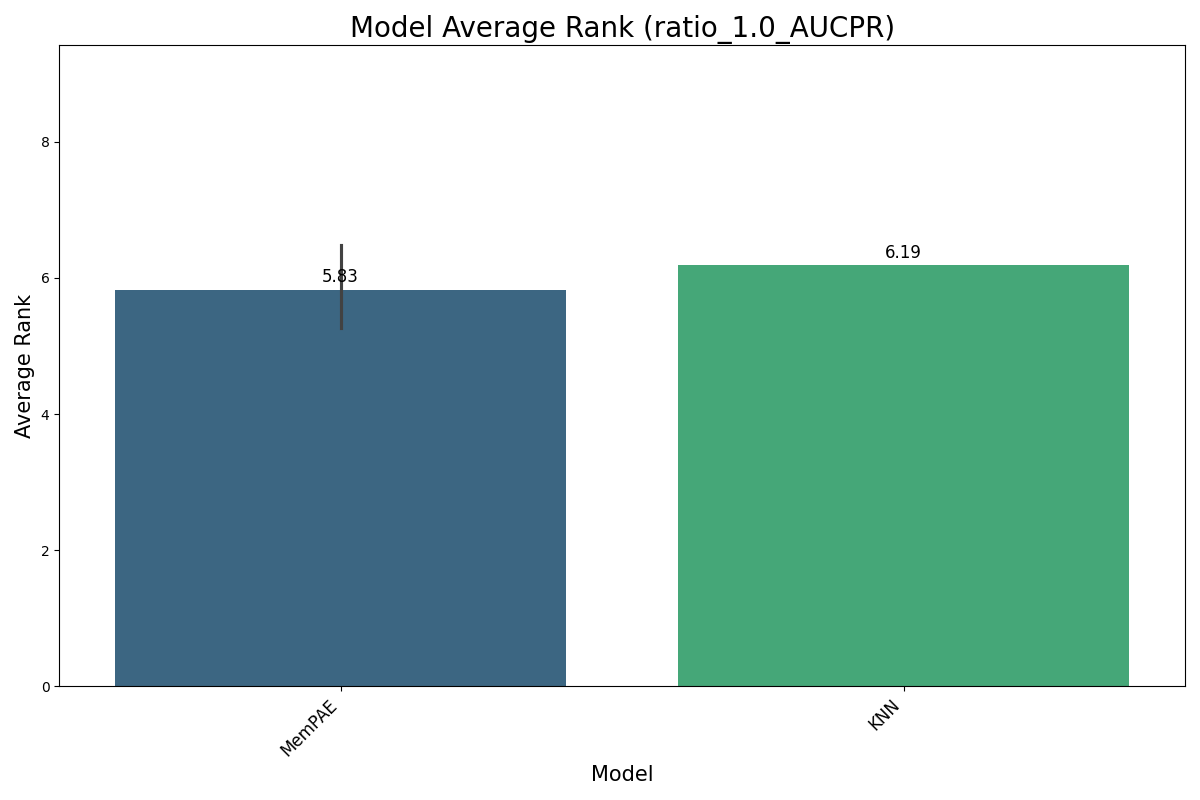
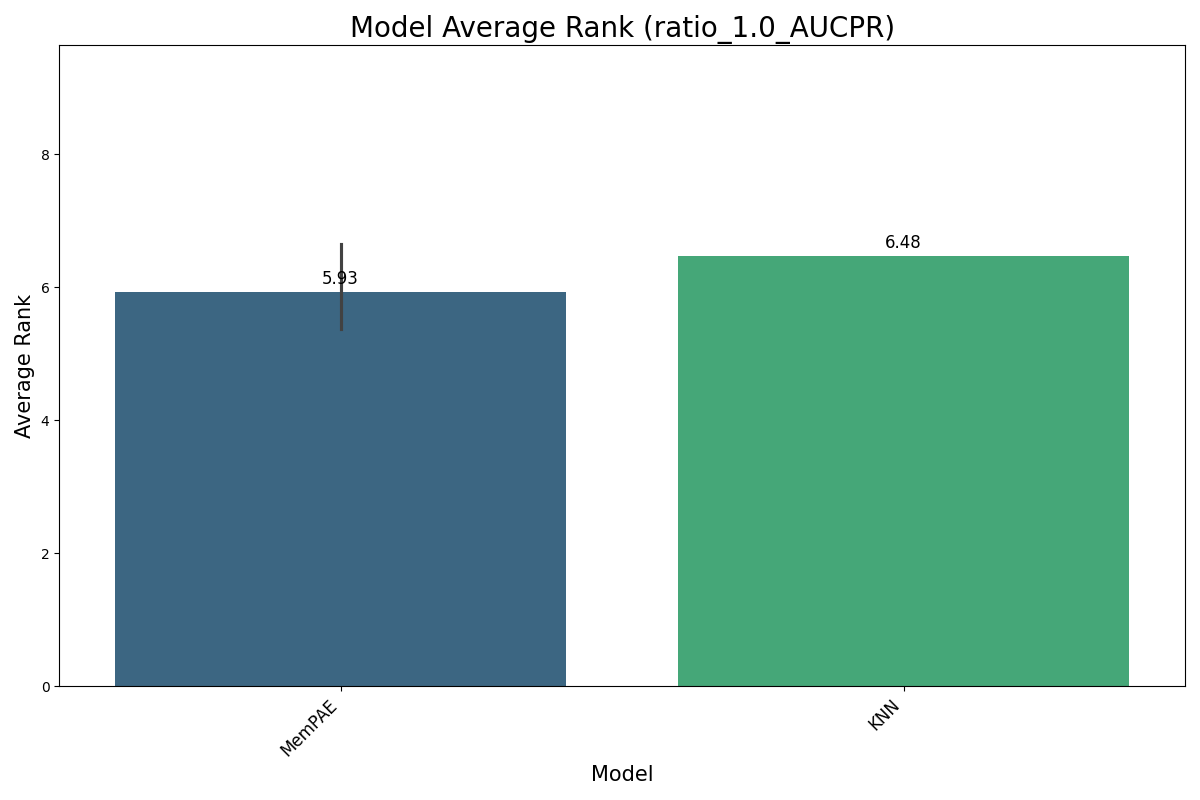
mp

Changed region(s): [[0.555, 0.2812, 0.9558, 0.3438], [0.2467, 0.3438, 0.3083, 0.375], [0.0308, 0.3438, 0.0617, 0.375]]

diff --git a/models/MemPAE/Model.py b/models/MemPAE/Model.py
@@ -290,6 +290,33 @@ class FeatureTokenizer(nn.Module):
         x_embedded = x.unsqueeze(-1) * self.embedding_matrix  # (batch_size, num_features, hidden_dim)
         return x_embedded
 
+
+class MLPMixerEncoder(nn.Module):
+    def __init__(
+        self, 
+        hidden_dim,
+        num_latents,
+        dropout_prob,
+    ):
+        super().__init__()
+        self.lin1 = nn.Linear(hidden_dim, hidden_dim)
+        self.act1 = nn.GELU()
+        self.drop1 = nn.Dropout(dropout_prob)
+        self.lin2 = nn.Linear(num_latents, num_latents)
+        self.act2 = nn.ReLU()
+        self.drop2 = nn.Dropout(dropout_prob)
+        
+    def forward(self, x):
+        assert x.ndim == 3 # (B, N, D)
+        x = self.drop1(self.act1(self.lin1(x))) # B, N, D
+        x = x.permute(0, 2, 1) # B, D, N
+        x = self.drop2(self.act2(self.lin2(x))) # B, D, N
+        x = x.permute(0, 2, 1) # B, N, D
+
+        return x
+
+
+
 class MLPMixerDecoder(nn.Module):
     def __init__(
         self, 
@@ -417,6 +444,7 @@ class MemPAE(nn.Module):
         top_k: int = None,
         is_recurrent: bool = False,
         mlp_encoder: bool = False, # make one token
+        mlp_mixer_encoder: bool = False, # make one token
         mlp_decoder: bool = False, # flatten latent_hat and apply mlp
         mlp_mixer_decoder: bool = False, # 
     ):
@@ -449,6 +477,9 @@ class MemPAE(nn.Module):
         if mlp_encoder:
             print("Init MLPEncoder.")
             self.encoder = MLPEncoder(hidden_dim, num_features, dropout_prob)
+        elif mlp_mixer_encoder: 
+            print("Init MLPMixerEncoder.")
+            self.encoder = MLPMixerEncoder(hidden_dim, num_features, dropout_prob)
         else:
             self.encoder = CrossAttention(hidden_dim, num_heads, mlp_ratio, dropout_prob)
         
@@ -497,6 +528,7 @@ class MemPAE(nn.Module):
         self.is_recurrent = is_recurrent
         self.mlp_encoder = mlp_encoder
         self.mlp_decoder = mlp_decoder
+        self.mlp_mixer_encoder = mlp_mixer_encoder
         self.mlp_mixer_decoder = mlp_mixer_decoder
         self.reset_parameters()
 
@@ -522,27 +554,32 @@ class MemPAE(nn.Module):
 
         if self.mlp_encoder:
             latents = self.encoder(x) # (B, F) -> (B, 1, D)
+
         else:
             # feature tokenizer
             feature_embedding = self.feature_tokenizer(x) # (B, F, D)
             feature_embedding = feature_embedding + self.pos_encoding
 
-            # encoder 
-            latents_query = self.latents_query.expand(batch_size, -1, -1) # (B, N, D)
-            latents, attn_weight_enc = self.encoder(latents_query, feature_embedding, feature_embedding, return_weight=True) 
+            if self.mlp_mixer_encoder:
+                latents = self.encoder(feature_embedding)
 
-            # self attention
-            attn_weight_self_list = []
-            if self.is_weight_sharing:
-                for _ in range(self.depth):
-                    latents, attn_weight_self = self.block(latents, return_weight=True)
-                    attn_weight_self_list.append(attn_weight_self)
-                    if self.is_recurrent:
-                        latents, _ = self.memory(latents)
             else:
-                for block in self.block:
-                    latents ,attn_weight_self = block(latents, return_weight=True)
-                    attn_weight_self_list.append(attn_weight_self)
+                # encoder 
+                latents_query = self.latents_query.expand(batch_size, -1, -1) # (B, N, D)
+                latents, attn_weight_enc = self.encoder(latents_query, feature_embedding, feature_embedding, return_weight=True) 
+
+                # self attention
+                attn_weight_self_list = []
+                if self.is_weight_sharing:
+                    for _ in range(self.depth):
+                        latents, attn_weight_self = self.block(latents, return_weight=True)
+                        attn_weight_self_list.append(attn_weight_self)
+                        if self.is_recurrent:
+                            latents, _ = self.memory(latents)
+                else:
+                    for block in self.block:
+                        latents ,attn_weight_self = block(latents, return_weight=True)
+                        attn_weight_self_list.append(attn_weight_self)
 
         if self.is_recurrent:
             latents_hat = latents # addressing is already performed

diff --git a/utils.py b/utils.py
@@ -65,6 +65,7 @@ def get_parser():
     parser.add_argument('--latent_ratio', type=float, default=None)    
     parser.add_argument('--memory_ratio', type=float, default=None)    
     parser.add_argument('--top_k', type=int, default=None)    
+    parser.add_argument('--mlp_mixer_encoder', action='store_true')    
     parser.add_argument('--mlp_mixer_decoder', action='store_true')    
     parser.add_argument('--mlp_encoder', action='store_true')    
     parser.add_argument('--mlp_decoder', action='store_true')    
@@ -205,6 +206,7 @@ def replace_transformer_config(args, model_config):
 
         if args.model_type in['MemPAE', 'PAE']: 
             model_config['mlp_mixer_decoder'] = args.mlp_mixer_decoder # None
+            model_config['mlp_mixer_encoder'] = args.mlp_mixer_encoder # None
             model_config['mlp_encoder'] = args.mlp_encoder # None
             model_config['mlp_decoder'] = args.mlp_decoder # None
             

diff --git a/summary.py b/summary.py
@@ -461,7 +461,7 @@ def render_train_ratio(pivots, print_summary = False):
         'campaign', # too slow
         'nslkdd',
         'fraud',
-        'census',
+        # 'census',
     ]
     models = [
         # 'KNN',
